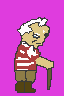
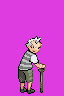
Add new Tim pic and tweak Gligar behavior

diff --git a/src/oak_speech.c b/src/oak_speech.c
@@ -899,33 +899,24 @@ static void Task_OakSpeech12(u8 taskId)
 
     if (!IsTextPrinterActive(0))
     {
-        if (data[3] != 0)
-            data[3]--;
-        // else {
-        spriteId = gTasks[taskId].data[4];
-        gSprites[spriteId].invisible = FALSE;
-        gSprites[spriteId].data[0] = 0;
-        CreatePokeballSpriteForOaksSpeech(spriteId, gSprites[spriteId].oam.paletteNum, 0x88, 0x50, 0, 0, 32, 0xFFFF1FFF);
-        gTasks[taskId].func = Task_OakSpeech13;
-        gTasks[taskId].data[3] = 0;
-        // }
+        gTasks[taskId].func = Task_OakSpeech17;
     }
 }
 
 static void Task_OakSpeech13(u8 taskId)
 {
-    if (IsCryFinished())
+    if (gTasks[taskId].data[3] >= 100)
+        gTasks[taskId].func = Task_OakSpeech14;
+    else if (gTasks[taskId].data[3] < 0x4000)
     {
-        if (gTasks[taskId].data[3] >= 222)
-            gTasks[taskId].func = Task_OakSpeech14;
-    }
-    if (gTasks[taskId].data[3] < 0x4000)
-    {
+        if (gTasks[taskId].data[3] == 0)
+        {
+            PlayCry1(SPECIES_GLIGAR, 0);
+        }
         gTasks[taskId].data[3]++;
-        if (gTasks[taskId].data[3] == 100)
+        if (gTasks[taskId].data[3] == 50)
         {
             OaksSpeechPrintMessage(gOakText_WorldInhabited2, sOakSpeechResources->textSpeed);
-            PlayCry1(SPECIES_GLIGAR, 0);
         }
     }
 }
@@ -947,7 +938,7 @@ static void Task_OakSpeech15(u8 taskId)
     {
         ClearDialogWindowAndFrame(0, 1);
         spriteId = gTasks[taskId].data[4];
-        gTasks[taskId].data[6] = CreateTradePokeballOakSprite(spriteId, gSprites[spriteId].oam.paletteNum, 0x88, 0x50, 0, 0, 32, 0xFFFF1F3F);
+        gSprites[gTasks[taskId].data[4]].invisible = TRUE;
         gTasks[taskId].data[3] = 48;
         gTasks[taskId].data[0] = 64;
         gTasks[taskId].func = Task_OakSpeech16;
@@ -960,11 +951,6 @@ static void Task_OakSpeech16(u8 taskId)
 
     if (data[0] != 0)
     {
-        if (data[0] < 24)
-        {
-            gSprites[data[4]].pos1.y += 1 * (data[4] % 3 != 0);
-            gSprites[data[4]].pos1.y -= 1;
-        }
         data[0]--;
     }
     else
@@ -981,7 +967,7 @@ static void Task_OakSpeech16(u8 taskId)
         else
         {
             OaksSpeechPrintMessage(gOakText_TellMeALittleAboutYourself, sOakSpeechResources->textSpeed);
-            gTasks[taskId].func = Task_OakSpeech17;
+            gTasks[taskId].func = Task_OakSpeech22;
         }
     }
 }
@@ -1012,7 +998,13 @@ static void Task_OakSpeech18(u8 taskId)
             data[1] = -60;
             DestroyOaksSpeechTrainerPic();
             gSaveBlock2Ptr->playerGender = MALE;
-            gTasks[taskId].func = Task_OakSpeech22;
+            // Load Pokemon
+            gSprites[gTasks[taskId].data[4]].pos1.x = 120;
+            gSprites[gTasks[taskId].data[4]].pos1.y = 80;
+            gSprites[gTasks[taskId].data[4]].data[0] = 0;
+            gSprites[gTasks[taskId].data[4]].invisible = FALSE;
+            gTasks[taskId].data[3] = 0;
+            gTasks[taskId].func = Task_OakSpeech13;
         }
     }
 }
@@ -1084,16 +1076,18 @@ static void Task_OakSpeech22(u8 taskId)
 static void Task_OakSpeech23(u8 taskId)
 {
     s16 * data = gTasks[taskId].data;
-
-    if (data[2] != 0)
+    if (!IsTextPrinterActive(0))
     {
-        if (data[3] != 0)
-            data[3]--;
-        else
+        if (data[2] != 0)
         {
-            data[1] = 0;
-            OaksSpeechPrintMessage(gOakText_AskPlayerName, sOakSpeechResources->textSpeed);
-            gTasks[taskId].func = Task_OakSpeech35;
+            if (data[3] != 0)
+                data[3]--;
+            else
+            {
+                data[1] = 0;
+                OaksSpeechPrintMessage(gOakText_AskPlayerName, sOakSpeechResources->textSpeed);
+                gTasks[taskId].func = Task_OakSpeech35;
+            }
         }
     }
 }

diff --git a/todo.md b/todo.md
@@ -1,6 +1,5 @@
 ## TODO:
 
-* FIX PRIZE MONEY!
 * Pokedex entries updated text
 * Pokedex size comparisons
 * Tutor moves
@@ -9,7 +8,6 @@
 * Fix melloetta munchlax and spiritomb icon pal
 * Versus seeker
 * fame checker
-* Continue recaps
 * Decap pokedex_entries.h
 * pokedex_orders.h
 * Update base stats
@@ -27,4 +25,4 @@
 * Missingno special type effectiveness (Bird Type?)
 * Eeveelutions
 * New Pokeballs, and "alternate" class TrainerBall types
-* Add >4 regionmap support
+* Fade in/out Gligar in Tim Intro. Change textbox pal
